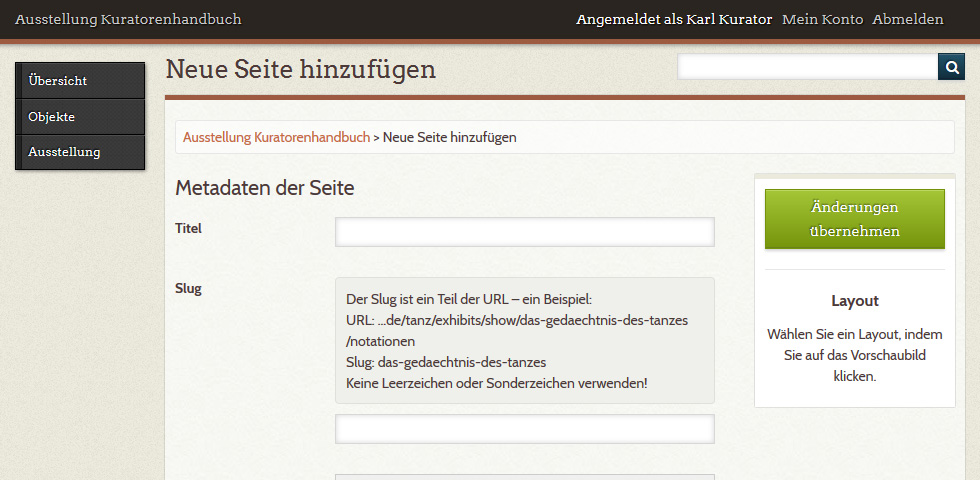
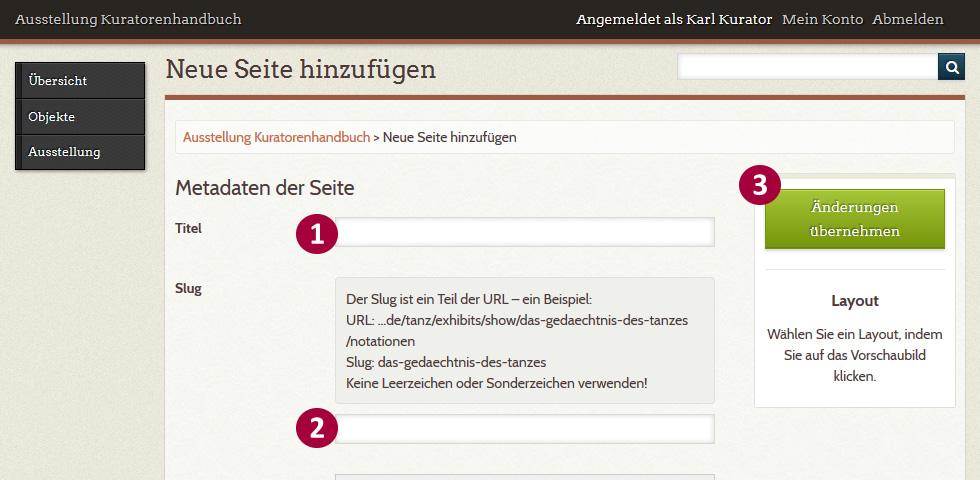
editing section 4

Changed region(s): [[0.2755, 0.4375, 0.3673, 0.5312], [0.7347, 0.3438, 0.7959, 0.4375], [0.2755, 0.8438, 0.3673, 0.9375]]

diff --git a/docs/css/extra.css b/docs/css/extra.css
@@ -13,11 +13,11 @@ figcaption {
 }
 
 .red-circle {
-    display: inline-block;
+    /*display: inline-block;
     background-color: #ec0a3c;
-    padding: 0 .8rem;
-    color: #fff;
-    border-radius: 1.6rem;
+    padding: 0 .8rem;*/
+    color: #A7003A;
+    /*border-radius: 1.6rem;*/
 }
 
 figure > img {
